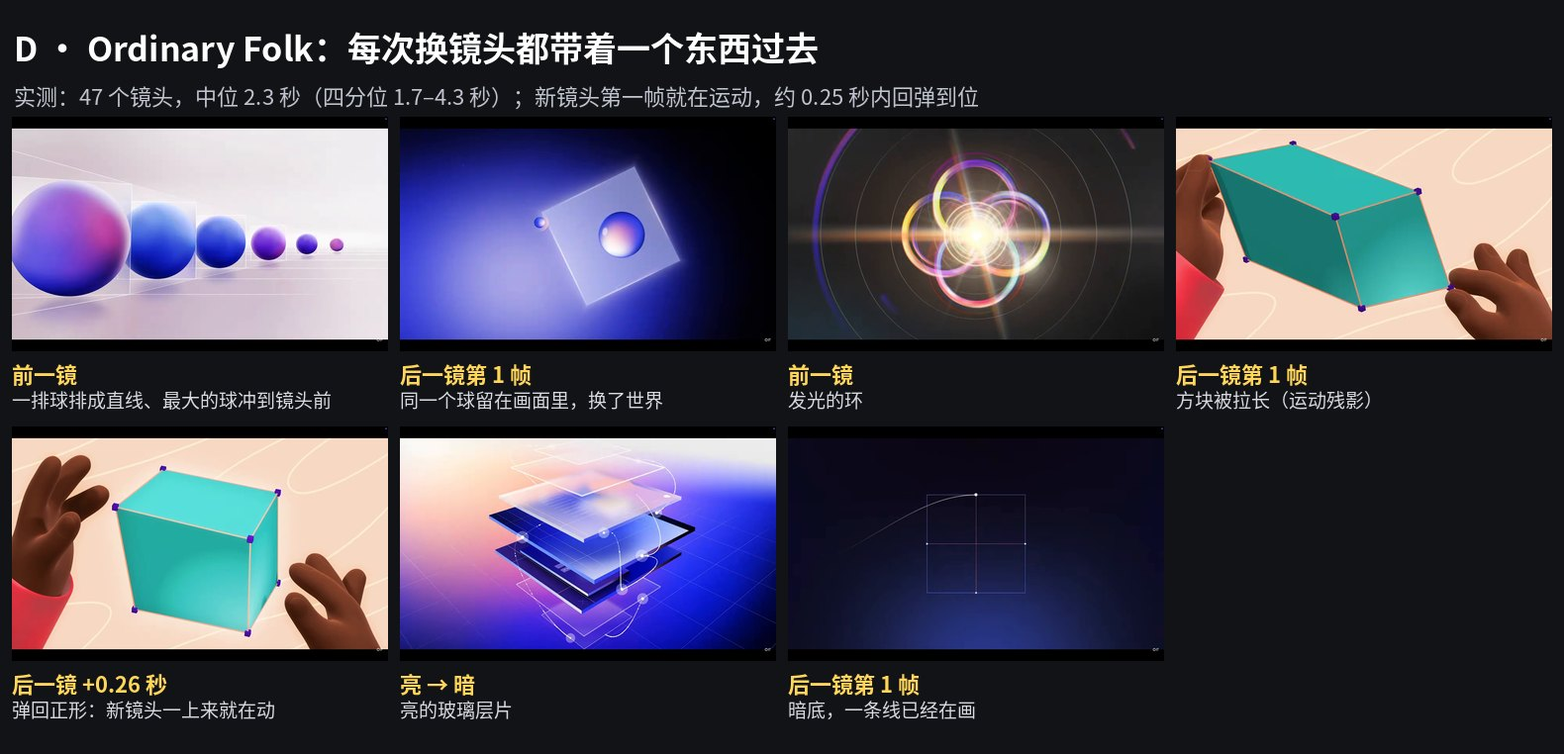
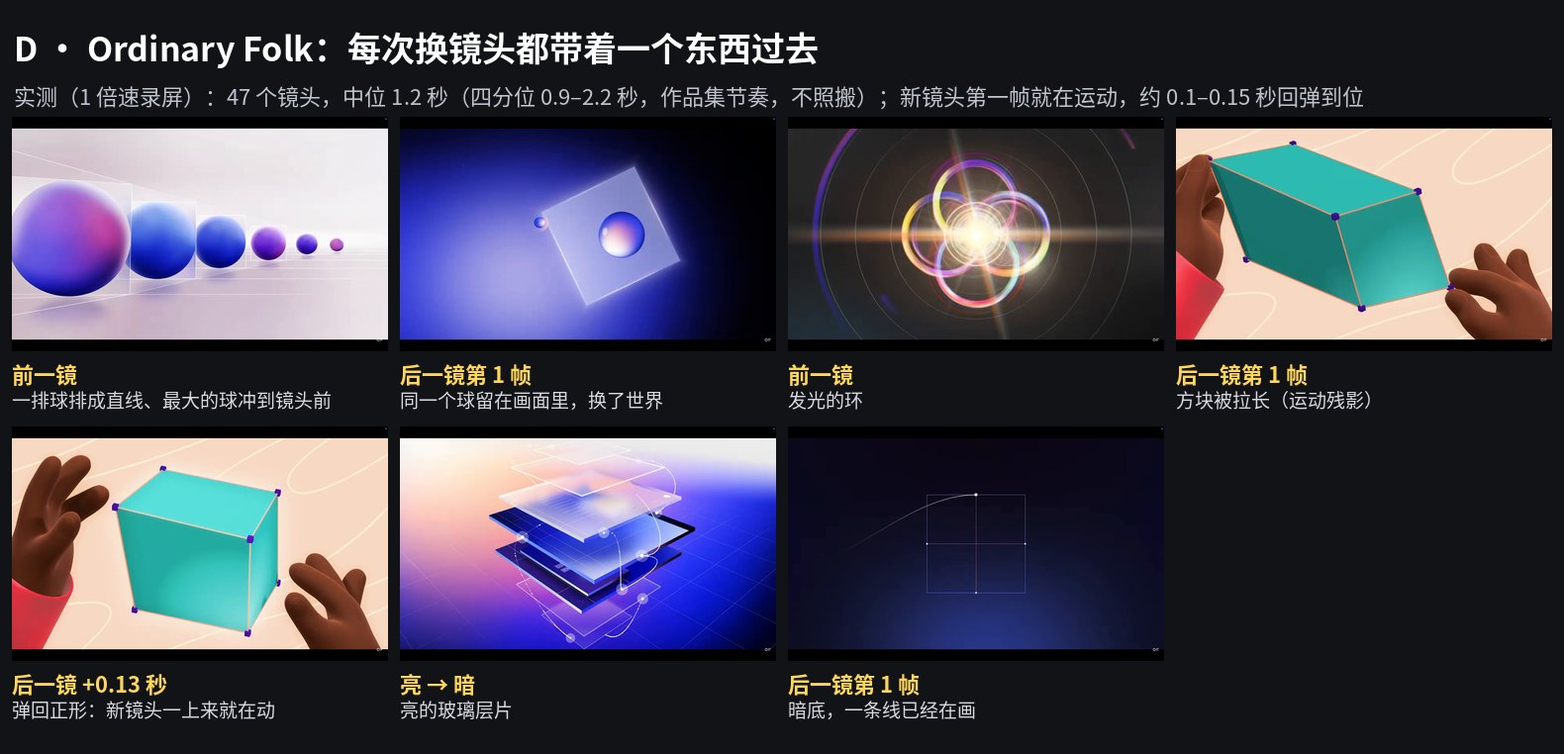
镜头规则第二版：按审核意见限定范围（光互连 / 3D，「为什么」不适用）、标注证据来源、修正 Ordinary Folk 倍速和 M5 片名、补光的物理约束；新增 tools/frame_stats.py
Claude-Session: https://claude.ai/code/session_017cWy2C9x8as99QvCXXTnLk

Changed region(s): [[0.031, 0.0906, 0.8684, 0.1509], [0.062, 0.8753, 0.093, 0.9357]]

diff --git a/tools/frame_stats.py b/tools/frame_stats.py
@@ -1,0 +1,34 @@
+#!/usr/bin/env python3
+"""测画面亮度和饱和度（「3D 镜头语法」第 9、10 条用）。
+用法：python3 tools/frame_stats.py <图片或视频> [秒 ...]
+  - 图片：直接测；视频：在给定秒数抽帧测（不给秒数就测第 0 秒）。
+输出：平均亮度（Rec.709 亮度，0–1）、5% / 95% 分位亮度、平均饱和度（全帧 HSV 的 S 取平均，0–1）、5 个主色。
+"""
+import sys, os, subprocess, tempfile
+import numpy as np
+from PIL import Image
+
+def stats(im):
+    a = np.asarray(im.convert('RGB'), dtype=np.float32) / 255
+    lum = 0.2126 * a[..., 0] + 0.7152 * a[..., 1] + 0.0722 * a[..., 2]
+    mx, mn = a.max(axis=2), a.min(axis=2)
+    sat = np.where(mx > 0, (mx - mn) / np.maximum(mx, 1e-6), 0)          # HSV 的 S
+    cols = sorted(im.convert('RGB').quantize(5).convert('RGB').getcolors(), reverse=True)[:5]
+    return lum.mean(), np.percentile(lum, 5), np.percentile(lum, 95), sat.mean(), ['#%02x%02x%02x' % c for _, c in cols]
+
+def main():
+    src = sys.argv[1]; ts = sys.argv[2:]
+    if src.lower().endswith(('.png', '.jpg', '.jpeg', '.webp')):
+        items = [(src, Image.open(src))]
+    else:
+        items = []
+        for t in ts or ['0']:
+            p = os.path.join(tempfile.mkdtemp(), 'f.png')
+            subprocess.run(['ffmpeg', '-nostdin', '-v', 'error', '-y', '-ss', t, '-i', src, '-frames:v', '1', p], check=True)
+            items.append((f'{src}@{t}s', Image.open(p)))
+    for name, im in items:
+        m, lo, hi, s, c = stats(im)
+        print(f'{name}  平均亮度 {m:.2f}  暗部5% {lo:.2f}  亮部95% {hi:.2f}  平均饱和度 {s:.2f}  主色 {c}')
+
+if __name__ == '__main__':
+    main()

diff --git a/CLAUDE.md b/CLAUDE.md
@@ -63,58 +63,74 @@
   用户反馈过「音乐单调」，所以不要一个循环从头铺到尾；但整体换曲风被否过（「不好听，不协调」），先在系列原有的音色里做变化。
 - 响度 -14 LUFS；音乐在人声下方约 12 dB。
 
-## 镜头语法（3D / 机制动画通用，来自参考片实测）
-用户 2026-11-10：「加进规则」。依据：
-- `research/参考片实测_录屏四部.md`：逐帧看录屏并测量，配图在 `research/参考片实测_录屏/`；
-- 两份更早的 Gemini 分析。两者冲突时以实测为准。
-
-叙事结构仍以系列 skill 为准；这里只管镜头怎么拍。不照搬任何一个创作者的画面。
+## 3D 镜头语法（光互连与所有 Blender / 3D 镜头）
+用户 2026-11-10：「加进规则」。
+- **适用范围**：光互连系列，以及所有 Blender / 3D 镜头。
+- **「为什么」系列不适用**：它有自己的画风和六段式（浅灰底、Canvas2D、画面最多 3 个数字、钻进去在第 3 段）。它的 skill 没有引用的条目，一律不用。
+- **和其它规则的关系**：开头结构、叙事顺序以系列 skill 和上面的「开头 2 秒规则」为准。这里的条目和它们叠加执行，冲突时以系列 skill 为准。
+- **依据**：
+  - 〔测〕：逐帧看录屏并测量，见 `research/参考片实测_录屏四部.md`，配图在 `research/参考片实测_录屏/`；
+  - 〔G〕：Gemini 看片分析，见 `research/参考片分析_BranchEducation_芯片制造.md`、`research/参考片分析_四部_层级_光纤_动效_钩子.md`；
+  - 〔建议〕：我们自己定的值，没有测过。
+- **饱和度怎么算**：全帧 HSV 的 S 取平均，用 `tools/frame_stats.py` 测。
 
 **结构**
-1. **跟着一个东西走**：跨尺度时让一个元素贯穿全程。光互连就跟「光」。
-2. **先圈出来再推进去**：用唯一的高亮色圈住下一级，停 0.4–0.6 秒，再推。
-3. **讲工序时相机不动，变的是材料**（Branch 实测：每秒尺度变化 < 1%）。
+1. **跟着一个东西走**：跨尺度时让一个元素贯穿全程。〔G〕
+   - 光互连跟「一个比特」：电的路段跟电信号，光的路段跟光。
+2. **先圈出来再推进去**：用珊瑚色（系列的强调色）圈住下一级，相机停 0.4–0.6 秒再推。〔G；停顿时长为建议〕
+   - 相机停的时候，环境和材料仍要有动静，避免超过动效检查「最长静止 ≤ 0.6 秒」的上限。
+3. **讲工序时相机不动，变的是材料**。〔测：Branch 工序段相机每秒尺度变化 < 1%〕
    - 每 2–4 秒一步，每步只动一层，每步配一种特效：烟、液体、火花、光环。
    - 工序条常驻：当前一步高亮，做过的变暗。
    - 讲「重复几十轮」时，把工序条首尾接成圆环，加层数和步数计数。
-4. **尺度旅行用一个连续镜头**，在对数刻度上匀速拉远或推进。
-   - 参考：MKBHD 横屏长片约 8 秒一个十倍。竖屏短片 2–4 秒一个十倍（建议值）。
+4. **尺度旅行用一个连续镜头**，在对数刻度上匀速拉远或推进。〔测〕
+   - MKBHD 横屏长片约 8 秒一个十倍；竖屏短片 2–4 秒一个十倍〔建议〕。
    - 没东西可看的量级加速甩过去，最后 1–2 秒减速落地。
-   - 每个量级放一个观众认识的比例物（病毒、细胞、头发、米粒、手、手机），2–4 秒出现一个，再配一个数字。
-5. **尺度数字做成 3D 立体字 + 双箭头**，放进场景，跟着透视和景深一起变虚。
-6. **层级往上升时，每次用同一个动作**（新一级从上方落下罩住下一级）。3D 实物和 2D 符号先并排对照一次，之后才单独用符号。
-7. **类比只在最底层用一次**，往上一直沿用，不换比喻。
-8. **结尾回到开头的实物或开头那句话。**
+   - 每个量级放一个观众认识的比例物（病毒、细胞、头发、米粒、手、手机），2–4 秒出现一个，再配一个数字。比例物和数字都要进 FACTS.md。
+5. **尺度数字做成 3D 立体字 + 双箭头**，放进场景，跟着透视和景深一起变虚。〔测〕
+6. **层级往上升时，每次用同一个动作**（新一级从上方落下，罩住下一级）。〔G〕
+   - 这个动作只用于抽象层级和外壳（芯片 → 模块 → 交换机 → 机柜），不用于工艺里的物理层，见第 17 条。
+   - 3D 实物和 2D 符号先并排对照一次，之后才单独用符号。
+7. **类比只在最底层用一次**，往上一直沿用，不换比喻。〔G〕
+8. **结尾回到开头的实物或开头那句话。**〔测 + G〕
 
 **画面**
-9. **微观世界的样子**：
+9. **微观世界的样子**：〔测：MKBHD 芯片段饱和度 0.65，我们的波导测试镜头 0.19–0.27〕
    - 景深很浅，前后都虚；
-   - 表面铺满细节（程序生成的版图、结构）；
    - 地面一直延伸到地平线，不是黑色虚空里的一块方块；
-   - 一种饱和的主色调铺满画面（饱和度 ≥ 0.5；光互连用青色）。
-10. **工序台的样子**：中性暗灰背景（饱和度 < 0.15，可加很淡的暗纹），颜色只给主体。样块侧面剖开，露出内部结构。
-11. **光要画成光**：曝光、出光、导光都画成半透明的体积光柱、光锥或光带，配辉光；不画成细棒或实心条。
-12. **简化就在屏幕上加注**（例如「厚度示意」「青色为示意」）。
+   - 表面铺满细节，但纹理要和芯片类型一致：硅光芯片的版图是稀疏的波导、光栅、微环、调制器，不是逻辑芯片那种密集街区；
+   - 底色铺一种饱和的主色调，饱和度 ≥ 0.5〔建议〕。色相要守系列色板：青色只给光，金色只给电，底色用深蓝 / 墨夜系，具体色值等 Style Bible 色板定。
+10. **工序台的样子**：中性暗灰背景，饱和度约 0.07–0.15〔测〕，可以加很淡的暗纹；颜色只给主体。样块侧面剖开，露出内部结构。
+11. **光要画成光，但要守物理**：
+    - 曝光画成半透明的体积光柱，不画成细棒〔测〕。光柱过了掩模要被图形切开，只照到开窗区域。紫色是约定色，加注「深紫外光看不见，颜色为示意」。
+    - 导光：光约束在芯区附近，外溢只画成很淡的倏逝尾，不让辉光扩散到波导外面（否则会读成漏光）。出射端可以画光锥。
+    - 加注「颜色 / 辉光为示意」。
+12. **简化就在屏幕上加注**，例如「厚度示意」「青色为示意」。〔G〕
 
 **开头与剪辑**
-13. **开头 3 秒**：
-    - 第一帧是实物加一个正在发生的动作；
+13. **开头**（和「开头 2 秒规则」叠加：第一帧仍要有实物 + 大字问题）：〔测：Zack D 卷笔刀〕
+    - 第一帧的实物上正在发生一个动作；
     - 外壳半透明，预示里面有东西；
-    - 3 秒内穿进去，不切；
-    - 中途让外面的世界往里看一次，给出尺度；
-    - 每 2–4 秒一个新视觉。
+    - 约 3–4 秒内进到里面：可以是不切的推进（参考片 3.25 秒开始穿外壳），也可以是光互连 skill 里的放大镜揭示；
+    - 片中段让外面的世界往里看一次，给出尺度（参考片在 10.75 秒）；
+    - 每 2–4 秒一个新视觉；
     - 只用真实但人们没注意过的细节，不用虚构角色。
-14. **剪辑节奏和转场**：
-    - 镜头中位约 2.3–2.5 秒；
-    - 换镜头时带一个东西过去：至少共享「位置 + 形状」或「位置 + 运动方向」，转场卡在拍点上；
-    - 新镜头第一帧就在运动，约 0.25 秒内回弹到位；
-    - 可以用亮暗反差切。
-15. **每次推镜都要回答一个问题**，不为炫技。
+14. **转场**（剪辑节奏不照搬）：〔测：Ordinary Folk〕
+    - 换镜头时带一个东西过去：至少共享「位置 + 形状」或「位置 + 运动方向」；
+    - 新镜头第一帧就在运动，约 0.1–0.2 秒回弹到位；
+    - 可以用亮暗反差切；
+    - 甩镜（whip）可以用速度掩盖画风切换〔G〕；
+    - 转场卡在音乐拍点上〔G；录屏没有声音，没测〕。
+    - **节奏按用户的要求，不按参考片**：Ordinary Folk 是动效作品集，镜头中位只有 1.2 秒，不适合科普。本系列每 3–8 秒有一次知识或视觉推进；关键步骤宁可多停，也不为凑节奏切走；尺度旅行段一个镜头到底。依据：用户写 Style Bible 需求时的原话，见 `episodes/guanghulian/Style_Bible_v1.md` 第 2 节「通用约束」。
+15. **每次推镜都要回答一个问题**，不为炫技。〔G〕
 
 **准确**
-16. **光纤里不画陡峭的之字形**；单模光纤画成沿轴的光斑。
-    「光往哪走」（空间）和「光怎么变」（时间）分两张图，标清轴单位和慢放倍率。
-17. **把介质透明化时，不能让导线看起来悬空**；拼装动画也不能让人以为芯片是「搭」出来的。
+16. **光纤的画法**：〔G + 判断〕
+    - 侧视：沿轴的连续光带，不画陡峭的之字形；
+    - 截面：中间亮、边缘渐暗的模场光斑，模场直径略大于纤芯，有一小部分在包层里；
+    - 多模光纤（数据中心短距常用）可以用几何光线示意，但光线和轴的夹角要很小（10° 以内），并加注。
+    - 「光往哪走」（空间）和「光怎么变」（时间）分两张图，标清轴单位和慢放倍率。
+17. **把介质透明化时，不能让导线看起来悬空**；拼装动画也不能让人以为芯片是「搭」出来的。〔G〕
 18. **参考片里的具体数字和用词一律不引用**，自己查来源，进 FACTS.md。
 
 ## 内容关卡（重渲染之前）

diff --git a/research/参考片实测_录屏四部.md b/research/参考片实测_录屏四部.md
@@ -13,9 +13,9 @@
 
 | 文件 | 内容 | 规格 | 倍速 | 用途（用户指定） |
 |---|---|---|---|---|
-| 22.59.27 | MKBHD《I shrunk down into an M3 chip》 | 640×400，60 fps，6:02 | 2 倍（原片约 12 分钟） | **3D 效果，重点是原片 8:15 起** |
+| 22.59.27 | MKBHD《I shrunk down into an M5 chip》 | 640×400，60 fps，6:02 | 2 倍（原片约 12 分钟） | **3D 效果，重点是原片 8:15 起** |
 | 19.40.06 | Branch Education《How are Microchips Made?》 | 640×400，60 fps，11:54 | 2 倍（原片约 24 分钟） | **3D 效果** |
-| 22.50.02 | Ordinary Folk《Reel II》 | 1280×800，60 fps，1:39 | 2 倍 | 转场 |
+| 22.50.02 | Ordinary Folk《Reel II》 | 1280×800，60 fps，1:39 | **1 倍**（播放器显示全片 1:31） | 转场 |
 | 22.54.34 | Zack D. Films《How Pencil Sharpeners Work》（Shorts） | 1280×800，播放器约 290×516 | **1 倍** | 开头钩子 |
 
 **能信的**
@@ -24,6 +24,7 @@
 
 **有限度的**
 - 2 倍速的录屏里，原片 1 秒只有 30 帧，0.2 秒以内的转场细节只能看出大概。
+- Branch 的「原片时间」是录屏时间 × 2 估算的。用户录的时候可能拖过进度条，和 YouTube 时间轴、转写稿的章节时间（例如单层工序在 5:41）对不上；画面内容是核对过的。
 - 640×400 的分辨率看不清细纹理。
 
 **没有的**
@@ -37,7 +38,7 @@
 - 2003 年晶体管，压着一个细菌；
 - 1988、1968；
 - 一根头发、一粒米；
-- 整颗 M3 芯片落回 MacBook 主板；
+- 整颗 M5 芯片落回 MacBook 主板；
 - 1948 年的第一颗晶体管（一个透明方块）放在主板上，旁边一部橙色 iPhone。
 
 接着是另一段：「如果晶体管有人那么大」——小人站在草地上，四周长出机柜；手机放大到压住整个曼哈顿；拉到地球、空间站、月球。
@@ -92,11 +93,12 @@
 
 ## 4. Ordinary Folk：转场（配图 D）
 
-**测出来的数**：47 个镜头，镜头长度中位 **2.3 秒**（四分位 1.7–4.3 秒，最长 13.7 秒）。
+**测出来的数**：47 个镜头，镜头长度中位 **1.2 秒**（四分位 0.9–2.2 秒，最长 6.8 秒）。这是动效作品集的节奏，不适合科普片照搬。
+（第一版报告误把这段录屏当成 2 倍速，写成中位 2.3 秒；播放器显示全片 1:31，实际是 1 倍速，已更正。）
 
 **看得出来的手法**
 1. **换镜头时带一个东西过去**：一排球排成直线，最大的球冲到镜头前；切过去后，同一个球留在新世界里。
-2. **新镜头第一帧就在运动**：方块第一帧是拉长的（运动残影），约 0.25 秒弹回正形。没有「静止 → 开始动」的过程。
+2. **新镜头第一帧就在运动**：方块第一帧是拉长的（运动残影），约 0.1–0.15 秒弹回正形。没有「静止 → 开始动」的过程。
 3. **亮暗反差切**：亮的玻璃层片切到暗底；切过去时，暗底上的一条线已经画到一半。
 4. **先变形再切**：人摔下去缩成一个红球，再切到一个同样有红色元素的构图。
 
@@ -114,23 +116,10 @@
 | 标签 | 2D 标签 + 引线 | MKBHD：3D 立体字 + 双箭头 | 尺度类数字做成 3D 字放进场景 |
 | 尺度 | 只有一个尺度 | MKBHD：病毒 → 米粒 → 手机 | 加观众认识的比例物 |
 
-## 6. 规则（替换上一版 14 条里对应的几条，加上了实测的数）
+## 6. 规则
 
-1. **尺度旅行用一个连续镜头**，在对数刻度上匀速拉远或推进。
-   - MKBHD 横屏长片约 8 秒一个十倍。竖屏短视频建议 2–4 秒一个十倍（这是我的建议，不是测出来的）。
-   - 没东西可看的量级加速甩过去，最后 1–2 秒减速落地。
-2. **每个量级放一个观众认识的比例物**，2–4 秒出现一个：病毒、细胞、头发、米粒、手、手机。
-3. **尺度类数字做成 3D 立体字 + 双箭头**，放进场景，跟着景深变虚。
-4. **微观世界的样子**：浅景深；表面铺满细节；地面延伸到地平线；一种饱和的主色调铺满画面（饱和度 0.5 以上）。
-5. **讲工序时相机不动**（每秒尺度变化 < 1%），每 2–4 秒一步，每步只动一层、配一种特效。背景用中性暗灰（饱和度 < 0.15），颜色只给主体。
-6. **光要画成光**：曝光、出光都画成半透明的体积光柱或光锥，不画成细棒。
-7. **开头 3 秒**：
-   - 第一帧是实物加一个正在发生的动作；
-   - 外壳半透明，预示里面有东西；
-   - 3 秒内穿进去，不切；
-   - 中途让外面的世界往里看一次，给出尺度；
-   - 结尾回到外面，同一个动作。
-8. **剪辑节奏**：镜头中位 2.3–2.5 秒。换镜头时带一个东西过去（同位置、同形状）；新镜头第一帧就在运动，0.25 秒内回弹到位。
+第一版写在这里的 8 条，已经和之前的 14 条合并，审核后改成第二版，放在 `CLAUDE.md`「3D 镜头语法」（18 条）。以那里为准。
+第一版的问题包括：适用范围写成「通用」、没区分实测和 Gemini、Ordinary Folk 的倍速弄错、光的画法有科学漏洞。
 
 ## 7. 原创镜头方案：「光在芯片里走的路有多细？」（竖屏，约 20 秒，待确认）
 
@@ -138,9 +127,9 @@
 
 | 秒 | 画面（一个连续镜头） | 3D 标签 | 比例物 |
 |---|---|---|---|
-| 0–2 | 微距：一条发着青光的硅波导，景深很浅，地面是延伸到地平线的芯片表面 | 「0.5 µm ↔」 | — |
+| 0–2 | 微距：一条硅波导，光约束在芯区（只有很淡的倏逝尾），景深很浅，地面是延伸到地平线的稀疏硅光版图 | 「0.5 µm ↔」 | — |
 | 2–5 | 拉远，旁边出现一个红细胞 | 「红细胞 约 8 µm」 | 红细胞 |
-| 5–8 | 波导接到一根光纤的端面：纤芯 9 µm，包层 125 µm | 「纤芯 9 µm」「光纤 125 µm」 | 一根头发横在旁边 |
+| 5–8 | 波导经过光栅耦合器或模斑转换器，光进入一根光纤：纤芯 9 µm，包层 125 µm（耦合结构要画出来并加注，不能让波导直接对上光纤） | 「纤芯 9 µm」「光纤 125 µm」 | 一根头发横在旁边 |
 | 8–10 | 加速甩过去（没东西可看的量级） | — | — |
 | 10–13 | 整颗硅光芯片，旁边一粒米 | 「硅光芯片 几毫米」 | 米粒 |
 | 13–16 | 芯片装在光模块里，模块插在手里 | 「光模块 约 9 cm」 | 手 |
@@ -153,3 +142,27 @@
   - 芯片表面的版图纹理要用程序生成。
 
 *没写代码。等用户看完配图、确认规则和方案后再做。*
+
+## 附：合并前的 14 条（2026-11-09 在对话里交给用户的版本）
+
+依据是 Gemini 分析和用户贴的转写稿。已经并入 `CLAUDE.md`「3D 镜头语法」。
+
+**叙事与结构**
+1. 跟着一个东西走。
+2. 进之前先圈出来。
+3. 工序条常驻，一次只动一层；讲重复时折成圆环。
+4. 每到新尺度给参照物和数字。
+5. 简化就在屏幕上加注。
+6. 层级往上升时，每次用同一个动作；3D 实物和 2D 符号先并排一次。
+7. 类比只在最底层用一次。
+8. 结尾回到开头的实物或那句话。
+
+**科学准确**
+9. 光纤里不画陡峭的之字形；空间和时间分两张图。
+10. 把介质透明化时，导线不能看起来悬空；拼装动画不能让人以为芯片是「搭」的。
+11. 参考片的具体数字和用词不引用。
+
+**动效与节奏**
+12. match cut 前后要共享位置 + 形状或位置 + 运动方向；甩镜用速度掩盖画风切换；转场卡在拍点。
+13. 0–3 秒用具体动作制造问题，3 秒内进到物体内部，每 2–4 秒一个新视觉，不用虚构角色。
+14. 每次推镜都要回答一个问题。

diff --git a/DECISIONS.md b/DECISIONS.md
@@ -70,6 +70,8 @@
 - 2026-11-09：「为什么」专业名词不进主字幕，要出现时用小字（用户：「术语用小字」；与 11-02「不要让专业名词成为主字幕，如果要出现，可以小字」一致，SERIES.md 原来写反了）。EP.05 改稿 v3 确认，中段 11.5 秒无新问题不改（用户：「中间节奏不用改」）。
 
 - 2026-11-09：**Blender 镜头全部在用户那台带显卡的电脑上渲**（Windows + NVIDIA RTX），云端不再渲 Blender（4 核 CPU 一帧约 20–60 秒，太慢）。分工：云端写 bpy 场景脚本、出渲染包（`episodes/guanghulian/02-serdes/blender_test/render_package_win/`，双击 .bat）；用户渲完把 `opening.mp4` + `anchors.json` 发回；云端叠字、字幕、配音（`composite.py`）。第一个 Blender 镜头是 02 上集开头（8.25 秒，并口线 vs USB 2.0 A 型）。
+- 2026-11-09：**Blender 3D 镜头默认用 EEVEE**，Cycles 只留给需要「光打在表面上」或玻璃透射的少数特写。用户的 RTX 2060 实测第 385 帧（1080×1920）：EEVEE 约 2 秒 / 帧，Cycles（128 采样）约 30 秒 / 帧；画质对比后结构、材质基本一致，辉光在云端合成里统一加。用户：「可以的」。详见 `episodes/guanghulian/blender_test_waveguide/README.md`。
+- 2026-11-10：**参考片学到的镜头规则写进 `CLAUDE.md`「镜头语法」**（适用于光互连和所有 Blender / 3D 镜头；「为什么」系列不适用）。来源：用户上传的四段录屏（MKBHD《I shrunk down into an M5 chip》、Branch 芯片制造、Ordinary Folk Reel II、Zack D 卷笔刀），这次是逐帧看并测量（`research/参考片实测_录屏四部.md`），合并了之前基于 Gemini 分析的 14 条（清单附在报告末尾）。关键修正：讲工序时相机不动（Branch 实测）；光画成体积光柱而不是细棒；尺度旅行用对数匀速的连续镜头。用户：「加进规则」。光互连 skill 里「镜头要在空间里穿行」一句相应补了例外。 审核第一轮「不通过」（范围太宽、证据来源没区分、Ordinary Folk 录屏其实是 1 倍速、光的画法有科学问题等 21 条），按意见改了第二版。
 
 ## 待定事项
 - 第 5 条：主阵地选抖音还是小红书（等小红书单条数据，由第一份周报回答）。
@@ -87,5 +89,3 @@
 - 2026-11-07：光互连第一个机制演示从「15 秒内」提前到「3 秒内（抖音）/ 尽量 5 秒内（小红书）」，演示长在第一帧的实物上。起因：03 小红书版第一个演示在 11 秒，用户复看觉得晚，抖音会撑不过 5 秒。
 - 2026-11-07：看过 03 抖音纸桌版草稿后改定：**抖音版做无旁白、科技感画风**，结构上借鉴小红书版（实物开场 + 第一帧就有演示、静一拍动一拍、结尾回到实物、一句话 + 你在这里、环境动态），配乐用小红书版的代码合成音色。同日上午「抖音改用纸桌画风」一条作废。
 - 2026-11-07：03 抖音无旁白科技感版草稿做完，用户：「还是不行，算了，先这样吧，抖音的暂停。」**抖音版暂停**，源码留在 `episodes/guanghulian/03-copper-blur/抖音版/`。转做小红书 04。
-- 2026-11-09：**Blender 3D 镜头默认用 EEVEE**，Cycles 只留给需要「光打在表面上」或玻璃透射的少数特写。用户的 RTX 2060 实测第 385 帧（1080×1920）：EEVEE 约 2 秒 / 帧，Cycles（128 采样）约 30 秒 / 帧；画质对比后结构、材质基本一致，辉光在云端合成里统一加。用户：「可以的」。详见 `episodes/guanghulian/blender_test_waveguide/README.md`。
-- 2026-11-10：**参考片学到的镜头规则写进 `CLAUDE.md`「镜头语法」**（18 条，3D / 机制动画通用）。来源：用户上传的四段录屏（MKBHD 缩小进 M3 芯片、Branch 芯片制造、Ordinary Folk Reel II、Zack D 卷笔刀），这次是逐帧看并测量（`research/参考片实测_录屏四部.md`），合并了之前基于 Gemini 分析的 14 条。关键修正：讲工序时相机不动（Branch 实测）；光画成体积光柱而不是细棒；尺度旅行用对数匀速的连续镜头。用户：「加进规则」。光互连 skill 里「镜头要在空间里穿行」一句相应补了例外。

diff --git a/.claude/skills/series-guanghulian/SKILL.md b/.claude/skills/series-guanghulian/SKILL.md
@@ -50,7 +50,7 @@ description: 制作「一语道破 · 白话光互连」系列的短视频（脚
 - **要让人眼前一亮**（用户 2026-11-07：「还是不够眼前一亮」）：
   - 第一帧就放全片最好看的画面，不要用手机界面、新闻卡这类普通画面开场；
   - 每条设计一个高潮瞬间（慢动作、咔一下对齐、镜头冲进去），放在反转那句话上；
-  - 镜头要在空间里穿行（换尺度、换场景时），不要一直固定机位看平面；但讲一步工序时相机停住，让材料变（见 `CLAUDE.md`「镜头语法」第 3 条）。
+  - 镜头要在空间里穿行（换尺度、换场景时），不要一直固定机位看平面；但讲一步工序时相机停住，让材料变（见 `CLAUDE.md`「3D 镜头语法」里「讲工序时相机不动」一条）。
 - 内容深度体现在把一个点讲透、讲准，不是讲得多。
 - 一周后用 `weekly-report` 对比两边的平均观看时长、收藏、涨粉，再决定以后怎么做。
 - B 站横屏版（1920×1080）可以照旧出。
